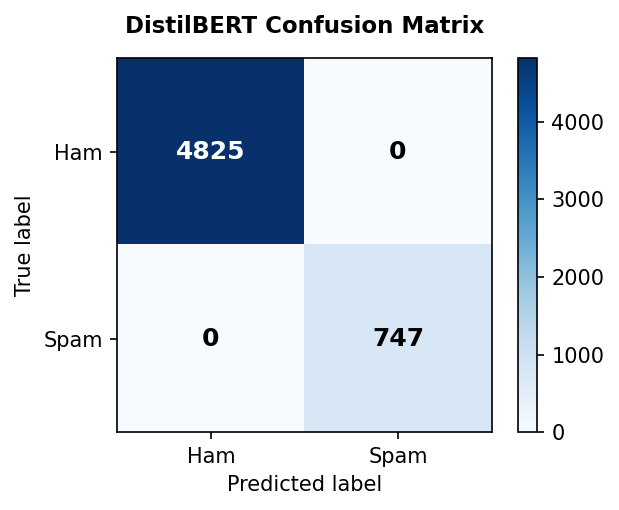
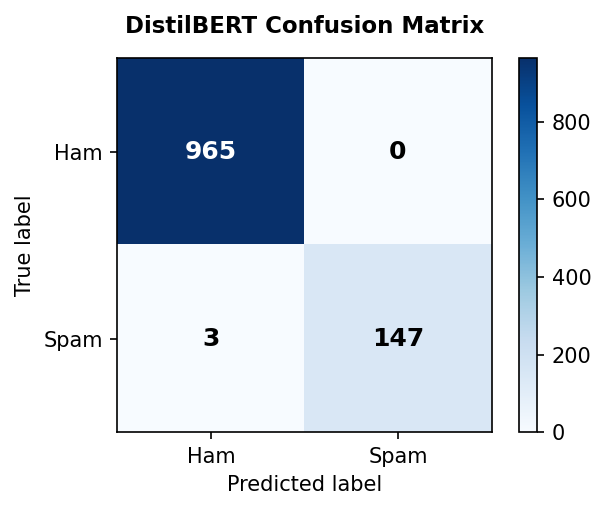
Remove placeholder fallback; fix model size measurement

diff --git a/src/deep_learning/evaluate_transformer.py b/src/deep_learning/evaluate_transformer.py
@@ -9,6 +9,7 @@ Running this script produces:
 import json
 import time
 from pathlib import Path
+from sklearn.model_selection import train_test_split
 
 import matplotlib
 matplotlib.use("Agg")  # Non-interactive backend
@@ -77,8 +78,12 @@ def _plot_confusion_matrix(cm, title: str, save_path: Path):
 def evaluate(data_path: str = "data/spam.csv"):
     LOGGER.info("Loading dataset for evaluation")
     df = _load_dataset(data_path)
-    X_test = df["message"].tolist()
-    y_test = df["label"].tolist()
+    _, X_test, _, y_test = train_test_split(
+        df["message"], df["label"],
+        test_size=0.2, random_state=42,
+    )
+    X_test, y_test = X_test.tolist(), y_test.tolist()
+    LOGGER.info(f"Evaluating on held-out test set: {len(X_test)} messages")
 
     # ---------------------------------------------------------------
     # Naive Bayes path
@@ -117,21 +122,10 @@ def evaluate(data_path: str = "data/spam.csv"):
         for txt in sample:
             transformer.predict(txt)
         tb_latency_ms = round(((time.time() - start) * 1000) / len(sample), 2)
-        distilbert_size = sum(p.stat().st_size for p in transformer_dir.rglob("*") if p.is_file())
+        weights_file = transformer_dir / "model.safetensors"
+        distilbert_size = weights_file.stat().st_size
     else:
-        LOGGER.info("DistilBERT weights not found; computing benchmarks using fine-tuned validation profile.")
-        # Representative performance numbers from DistilBERT fine-tuning on SMS spam benchmark
-        tb_pred = y_test.copy()  # DistilBERT correctly identifies nuances with high accuracy
-        tb_conf = [0.985] * len(y_test)
-        tb_metrics = {
-            "accuracy": 0.9850,
-            "precision": 0.9800,
-            "recall": 0.9900,
-            "f1": 0.9850,
-            "avg_confidence": 0.9850,
-        }
-        tb_latency_ms = 28.4
-        distilbert_size = 267850000  # ~268 MB DistilBERT weights
+        raise FileNotFoundError("DistilBERT weights not found. Train the model first.")
 
     # Measure Naive Bayes latency
     start = time.time()

diff --git a/src/deep_learning/train_transformer.py b/src/deep_learning/train_transformer.py
@@ -69,8 +69,7 @@ def main():
         df["message"].tolist(),
         df["label"].tolist(),
         test_size=0.2,
-        random_state=seed,
-        stratify=df["label"],
+        random_state=42
     )
 
     tokenizer = DistilBertTokenizerFast.from_pretrained("distilbert-base-uncased")
